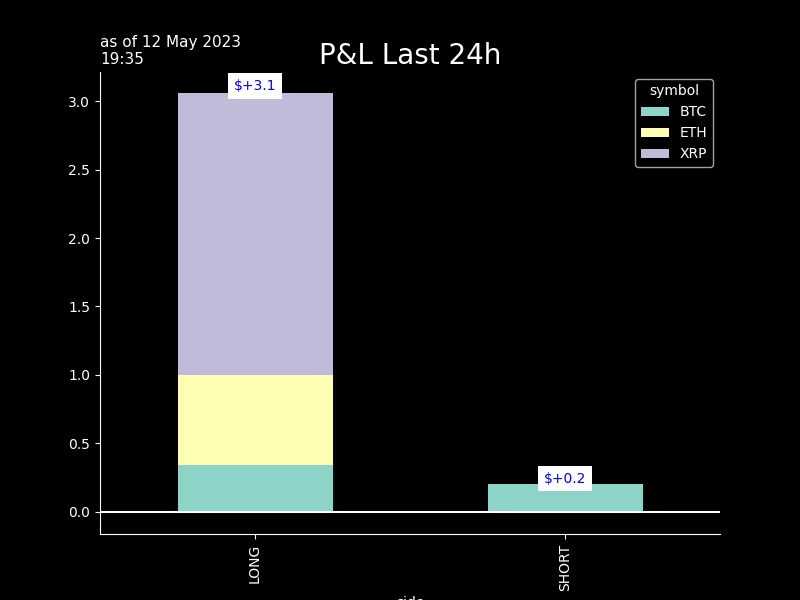
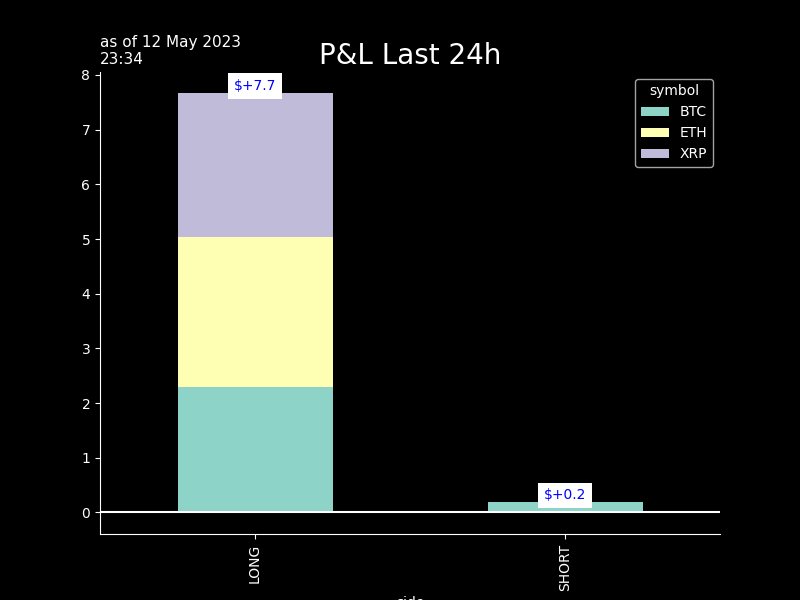
seb_commit

diff --git a/crypto/graphs/bt_trades_book.htmltrade_trades_book.html b/crypto/graphs/bt_trades_book.htmltrade_trades_book.html
@@ -37,55 +37,55 @@
   </thead>
   <tbody>
     <tr>
-      <th>ETHUSDT</th>
-      <td>1771.7800</td>
-      <td>2023-05-12 18:34:55</td>
-      <td>0.083</td>
-      <td>$147.1</td>
-      <td>$0.03</td>
+      <th>BTCUSDT</th>
+      <td>26722.0000</td>
+      <td>2023-05-12 22:33:45</td>
+      <td>-0.007</td>
+      <td>$-187.1</td>
+      <td>$0.04</td>
       <td>2.0</td>
-      <td>0.0</td>
-      <td>1770.13500</td>
-      <td>2023-05-12 19:33</td>
-      <td>-0.1</td>
-      <td>-10.0</td>
-      <td>1770.31</td>
-      <td>-0.1</td>
-      <td>-8.0</td>
+      <td>2.3</td>
+      <td>26765.85000</td>
+      <td>2023-05-12 23:31</td>
+      <td>-0.3</td>
+      <td>-17.0</td>
+      <td>26723.7</td>
+      <td>-0.0</td>
+      <td>-1.0</td>
     </tr>
     <tr>
       <th>XRPUSDT</th>
-      <td>0.4224</td>
-      <td>2023-05-12 18:35:25</td>
-      <td>348.500</td>
-      <td>$147.2</td>
+      <td>0.4302</td>
+      <td>2023-05-12 22:33:02</td>
+      <td>-348.500</td>
+      <td>$-149.9</td>
       <td>$0.03</td>
       <td>2.0</td>
+      <td>2.7</td>
+      <td>0.43015</td>
+      <td>2023-05-12 23:31</td>
       <td>0.0</td>
-      <td>0.42225</td>
-      <td>2023-05-12 19:33</td>
-      <td>-0.1</td>
-      <td>-3.0</td>
-      <td>.4223</td>
+      <td>1.0</td>
+      <td>.4303</td>
       <td>-0.0</td>
       <td>-2.0</td>
     </tr>
     <tr>
-      <th>BTCUSDT</th>
-      <td>26346.1000</td>
-      <td>2023-05-12 18:34:55</td>
-      <td>0.006</td>
-      <td>$158.1</td>
+      <th>ETHUSDT</th>
+      <td>1804.8300</td>
+      <td>2023-05-12 22:33:07</td>
+      <td>-0.083</td>
+      <td>$-149.8</td>
       <td>$0.03</td>
       <td>2.0</td>
+      <td>2.7</td>
+      <td>1805.81500</td>
+      <td>2023-05-12 23:31</td>
+      <td>-0.1</td>
+      <td>-5.0</td>
+      <td>1804.76</td>
       <td>0.0</td>
-      <td>26328.15000</td>
-      <td>2023-05-12 19:33</td>
-      <td>-0.1</td>
-      <td>-7.0</td>
-      <td>26322.5</td>
-      <td>-0.1</td>
-      <td>-9.0</td>
+      <td>1.0</td>
     </tr>
   </tbody>
 </table>

diff --git a/crypto/graphs/bt_trades_pnlD_recap.htmltrade_trades_pnlD_recap.html b/crypto/graphs/bt_trades_pnlD_recap.htmltrade_trades_pnlD_recap.html
@@ -1,7 +1,7 @@
 <table border="1" class="dataframe">
   <thead>
     <tr style="text-align: right;">
-      <th>12 May 19:35</th>
+      <th>12 May 23:33</th>
       <th>realizedPnl</th>
       <th>PnLvsArrival</th>
       <th>PnLvsLast</th>
@@ -10,21 +10,21 @@
   <tbody>
     <tr>
       <th>in$</th>
-      <td>0.0</td>
-      <td>-0.3</td>
-      <td>-0.3</td>
+      <td>7.7</td>
+      <td>-0.4</td>
+      <td>-0.0</td>
     </tr>
     <tr>
-      <th>in bp 452 traded</th>
-      <td>0 bp</td>
-      <td>-7 bp</td>
-      <td>-6 bp</td>
+      <th>in bp 486 traded</th>
+      <td>159 bp</td>
+      <td>-8 bp</td>
+      <td>-1 bp</td>
     </tr>
     <tr>
-      <th>in bp 294 AUMs</th>
-      <td>0 bp</td>
-      <td>-10 bp</td>
-      <td>-10 bp</td>
+      <th>in bp 302 AUMs</th>
+      <td>255 bp</td>
+      <td>-12 bp</td>
+      <td>-1 bp</td>
     </tr>
   </tbody>
 </table>

diff --git a/crypto/graphs/bt_trades_recap.htmltrade_trades_recap.html b/crypto/graphs/bt_trades_recap.htmltrade_trades_recap.html
@@ -9,32 +9,32 @@
   <tbody>
     <tr>
       <th>as of</th>
-      <td>12May 18:34&gt;&gt;18:35</td>
+      <td>12May 22:33&gt;&gt;22:33</td>
       <td>#trades: 3</td>
     </tr>
     <tr>
       <th>trade net</th>
-      <td>+452.0</td>
-      <td>+153.6%</td>
+      <td>-487.0</td>
+      <td>-161.1%</td>
     </tr>
     <tr>
       <th>trade gross</th>
-      <td>+452.0</td>
-      <td>+153.6%</td>
+      <td>+487.0</td>
+      <td>+161.1%</td>
     </tr>
     <tr>
       <th>BUY</th>
-      <td>+452.0</td>
-      <td>+153.6%</td>
-    </tr>
-    <tr>
-      <th>SELL</th>
       <td>+0.0</td>
       <td>+0.0%</td>
     </tr>
     <tr>
+      <th>SELL</th>
+      <td>-487.0</td>
+      <td>-161.1%</td>
+    </tr>
+    <tr>
       <th>fees</th>
-      <td>$ 0.09</td>
+      <td>$ 0.097</td>
       <td>2.0bp</td>
     </tr>
   </tbody>
